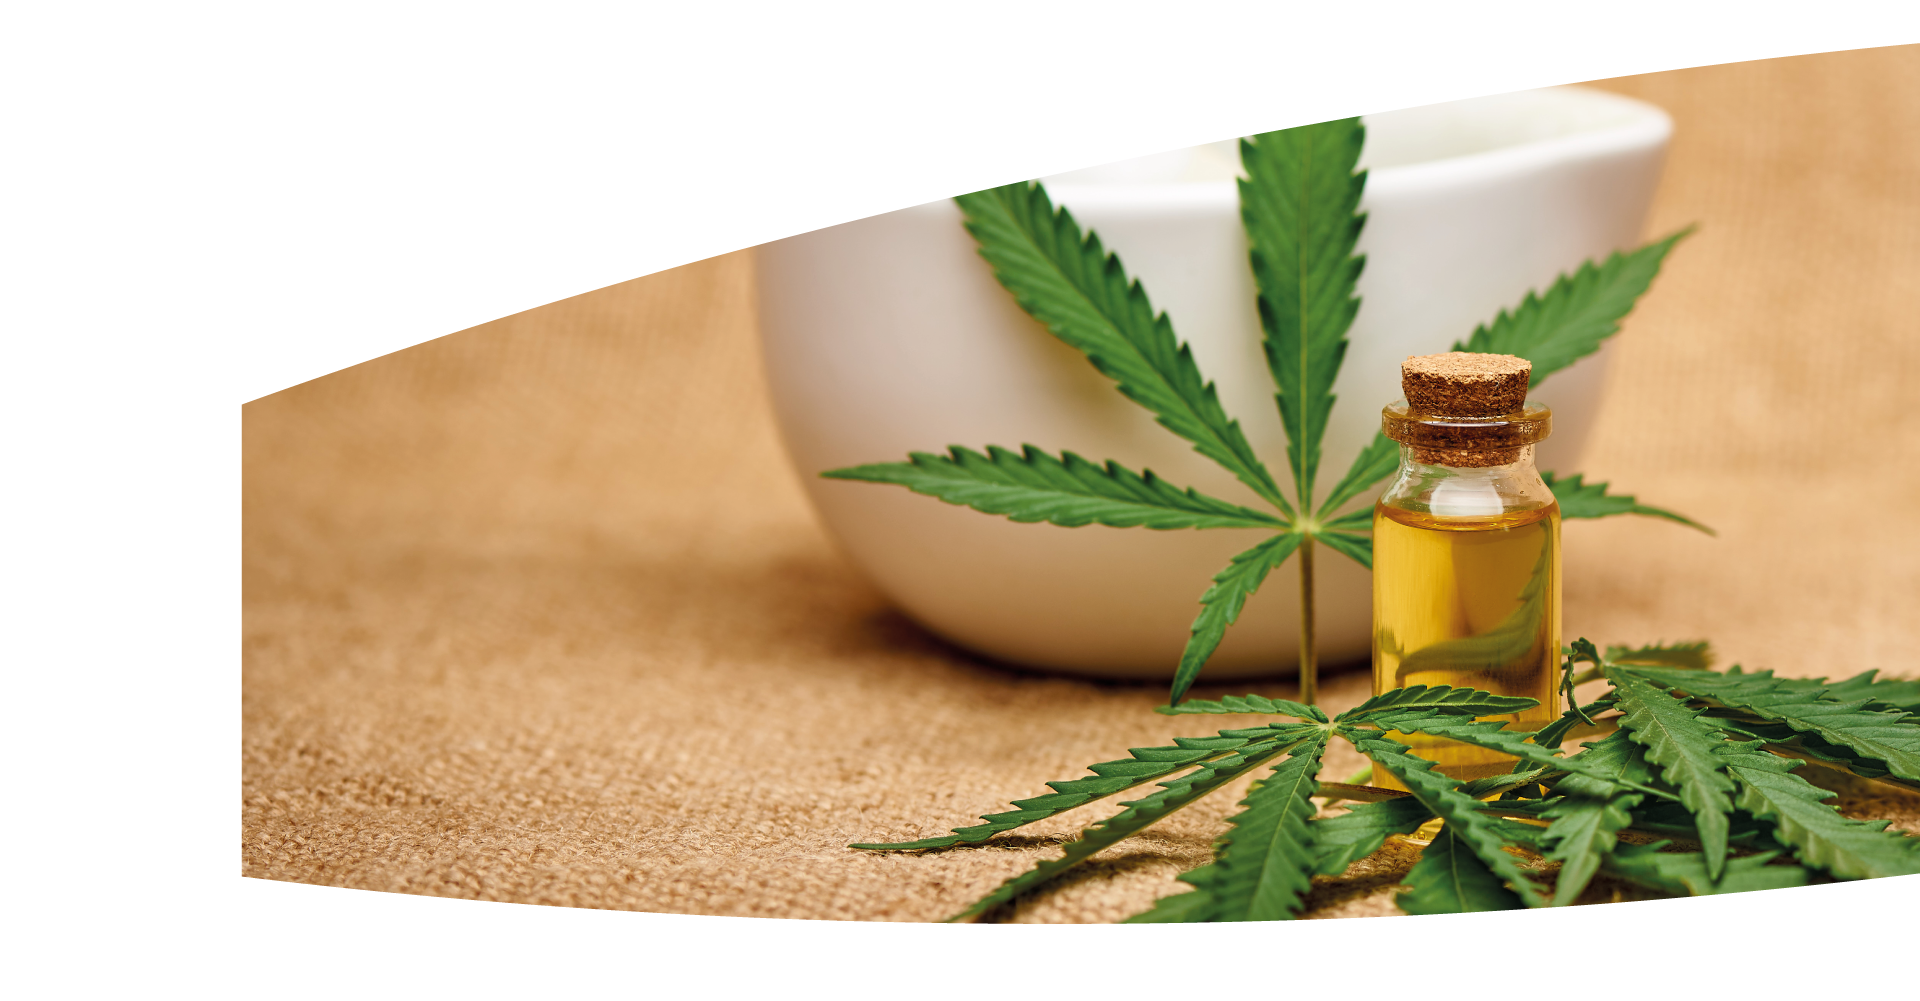
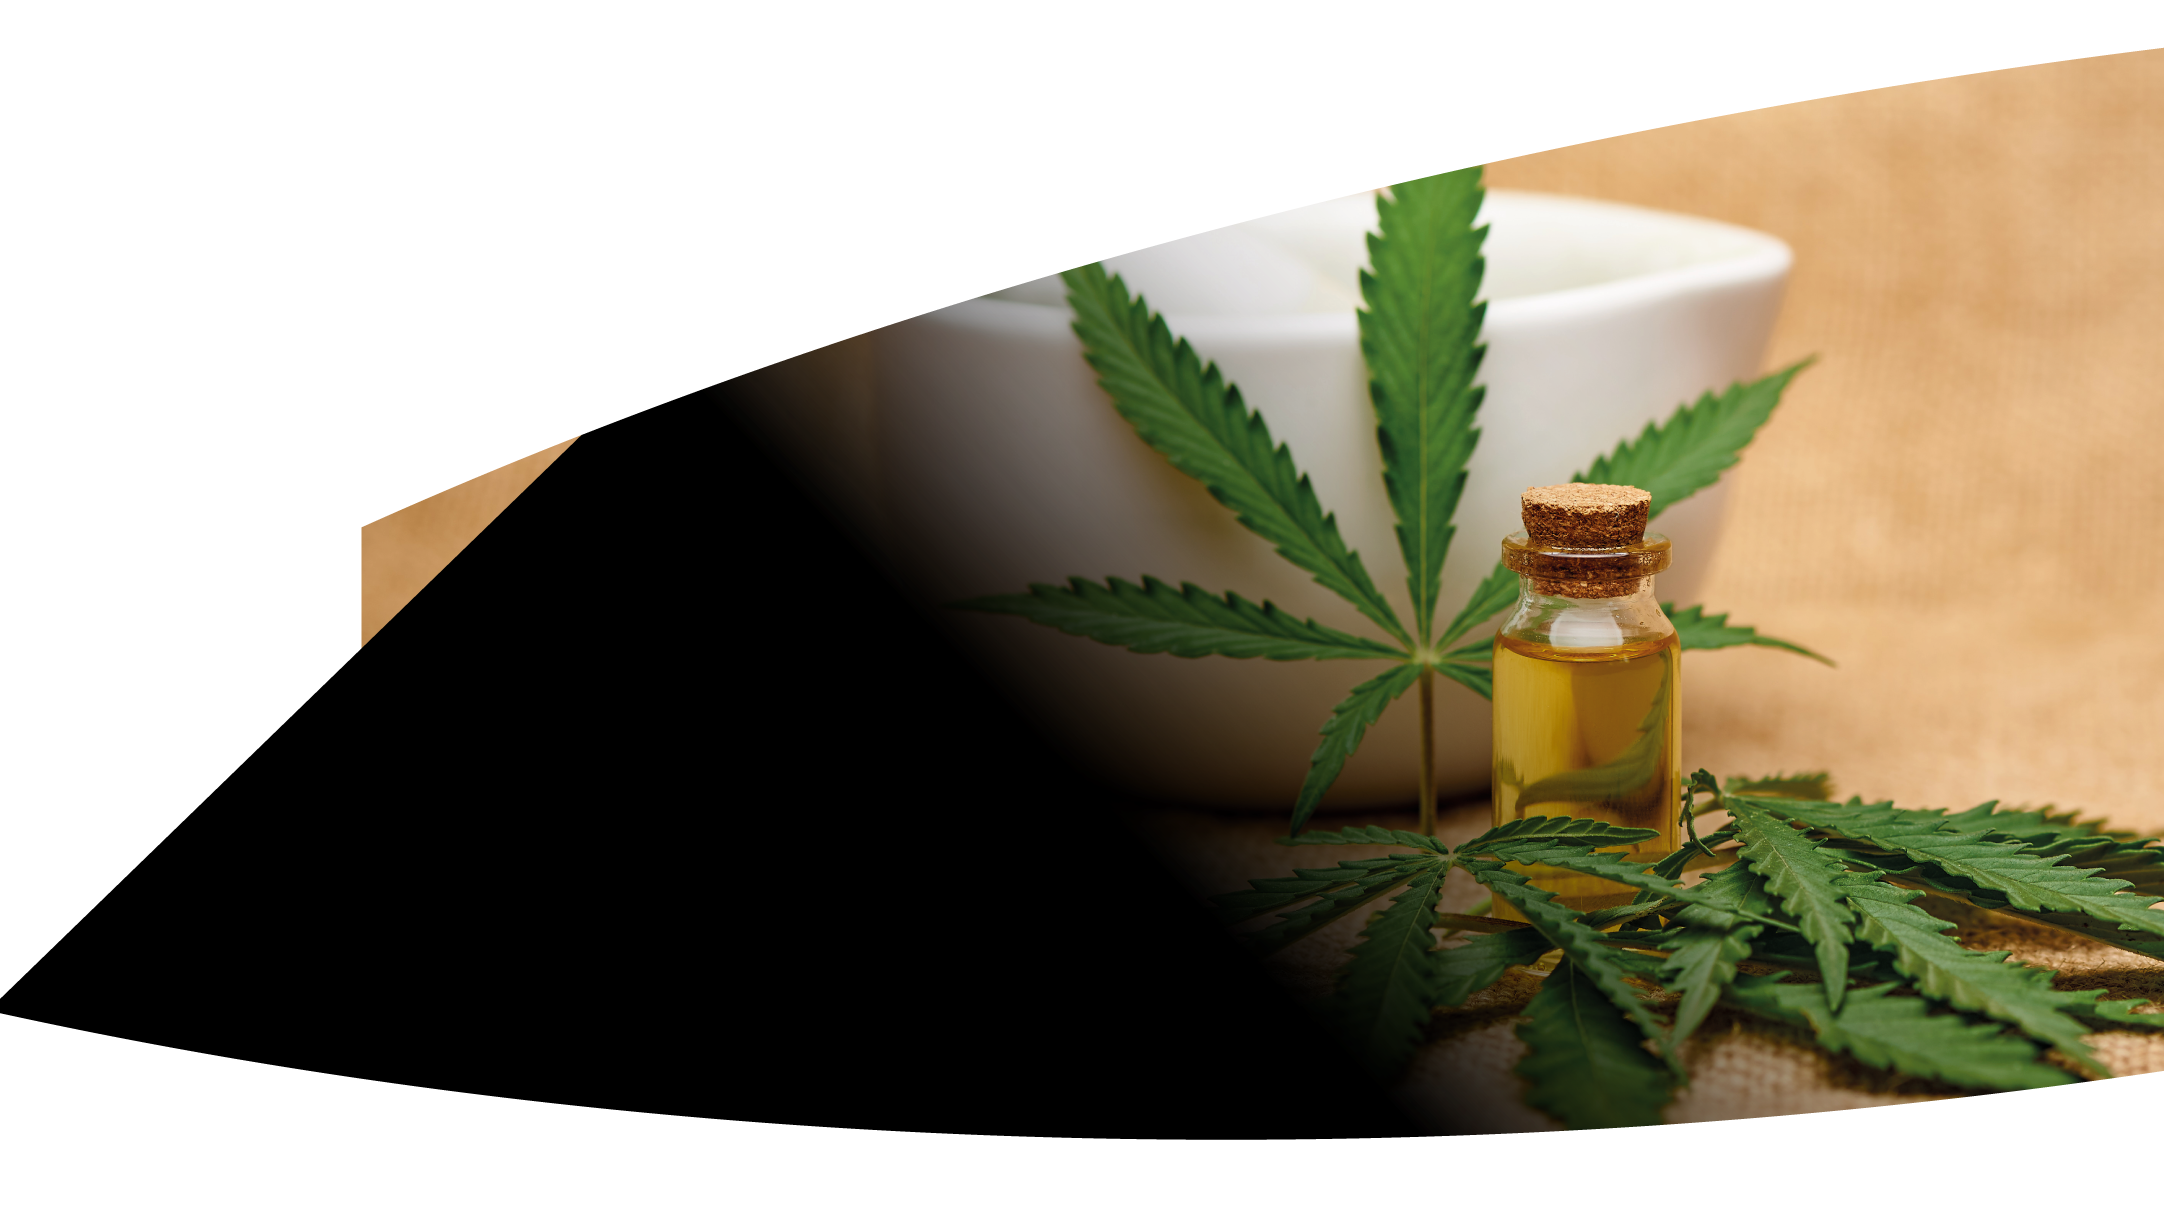
fix (Broad): several layout and styles fixes
- fixed layout for first service in services
- fixed navbar focus link color
- fixed footer height in large screens
- fixed number section styles

diff --git a/src/components/Navbar.tsx b/src/components/Navbar.tsx
@@ -19,7 +19,7 @@ const Navbar = (
     const selectedStyle: string = "z-10 h-0.5 absolute -bottom-0.5 lg:relative px-1 rounded-sm w-full bg-caribbean-green";
     const deselectedStyle: string = "h-0.5 absolute -bottom-0.5 lg:relative px-1 rounded-sm w-full";
     const listItemStyle: string = "flex relative flex-col items-center justify-end h-full gap-12";
-    const linkStyle: string = "font-semibold tracking-wide transition quartic-in-out duration-300 lg:hover:text-white lg:hover:-translate-y-1 focus:text-clinic-persian-green";
+    const linkStyle: string = "font-semibold tracking-wide transition quartic-in-out duration-300 lg:hover:text-viridian-green lg:hover:-translate-y-1 focus:text-viridian-green";
     const buttonStyle: string = "hidden lg:block rounded-full border-solid border-2 border-viridian-green text-viridian-green font-normal text-base px-6 py-1 transition duration-300 exponential-out lg:hover:border-white focus:border-white lg:hover:scale-110 lg:hover:bg-viridian-green lg:hover:text-white focus:scale-110 focus:bg-viridian-green focus:text-white";
 
     const {width: wWidth, height: wHeight} = useWindowDimensions();
@@ -73,31 +73,31 @@ const Navbar = (
             <>
                 <li className={listItemStyle}>
                     <Link
-                        className={`${linkStyle} ${props.selection === "home" ? "font-bold text-clinic-jade" : ""}`}
+                        className={`${linkStyle} ${props.selection === "home" ? "font-bold text-caribbean-green" : ""}`}
                         href={"/"}>{strings.navbar.home}</Link>
                     <span className={props.selection === "home" ? selectedStyle : deselectedStyle}/>
                 </li>
                 <li className={listItemStyle}>
                     <Link
-                        className={`${linkStyle} ${props.selection === "services" ? "font-bold text-clinic-jade" : ""}`}
+                        className={`${linkStyle} ${props.selection === "services" ? "font-bold text-caribbean-green" : ""}`}
                         href={"/services"}>{strings.navbar.services}</Link>
                     <span className={props.selection === "services" ? selectedStyle : deselectedStyle}/>
                 </li>
                 {/*<li className={listItemStyle}>*/}
                 {/*    <Link*/}
-                {/*        className={`${linkStyle} ${props.selection === "experience" ? "font-bold text-clinic-jade" : ""}`}*/}
+                {/*        className={`${linkStyle} ${props.selection === "experience" ? "font-bold text-caribbean-green" : ""}`}*/}
                 {/*        href={"/experience"}>{strings.navbar.experience}</Link>*/}
                 {/*    <span className={props.selection === "experience" ? selectedStyle : deselectedStyle}/>*/}
                 {/*</li>*/}
                 <li className={listItemStyle}>
                     <Link
-                        className={`${linkStyle} ${props.selection === "blog" ? "font-bold text-clinic-jade" : ""}`}
+                        className={`${linkStyle} ${props.selection === "blog" ? "font-bold text-caribbean-green" : ""}`}
                         href={"/blog"}>{strings.navbar.blog}</Link>
                     <span className={props.selection === "blog" ? selectedStyle : deselectedStyle}/>
                 </li>
                 <li className={listItemStyle}>
                     <Link
-                        className={`${linkStyle} ${props.selection === "contact" ? "font-bold text-clinic-jade" : ""}`}
+                        className={`${linkStyle} ${props.selection === "contact" ? "font-bold text-caribbean-green" : ""}`}
                         href={"/contact"}>{strings.navbar.contact}</Link>
                     <span className={props.selection === "contact" ? selectedStyle : deselectedStyle}/>
                 </li>
@@ -107,22 +107,22 @@ const Navbar = (
         else return (
             <>
                 <li className={listItemStyle}>
-                    <Link className={`${linkStyle} ${props.selection === "1" ? "font-bold text-clinic-jade" : ""}`}
+                    <Link className={`${linkStyle} ${props.selection === "1" ? "font-bold text-caribbean-green" : ""}`}
                           href={"/experience/pharmacy"}>{strings.experience.carousel["1"].headline}</Link>
                     <span className={props.selection === "1" ? selectedStyle : deselectedStyle}/>
                 </li>
                 <li className={listItemStyle}>
-                    <Link className={`${linkStyle} ${props.selection === "2" ? "font-bold text-clinic-jade" : ""}`}
+                    <Link className={`${linkStyle} ${props.selection === "2" ? "font-bold text-caribbean-green" : ""}`}
                           href={"/experience/coffee-shop"}>{strings.experience.carousel["2"].headline}</Link>
                     <span className={props.selection === "2" ? selectedStyle : deselectedStyle}/>
                 </li>
                 <li className={listItemStyle}>
-                    <Link className={`${linkStyle} ${props.selection === "3" ? "font-bold text-clinic-jade" : ""}`}
+                    <Link className={`${linkStyle} ${props.selection === "3" ? "font-bold text-caribbean-green" : ""}`}
                           href={"/experience/boutique"}>{strings.experience.carousel["3"].headline}</Link>
                     <span className={props.selection === "3" ? selectedStyle : deselectedStyle}/>
                 </li>
                 <li className={listItemStyle}>
-                    <Link className={`${linkStyle} ${props.selection === "4" ? "font-bold text-clinic-jade" : ""}`}
+                    <Link className={`${linkStyle} ${props.selection === "4" ? "font-bold text-caribbean-green" : ""}`}
                           href={"/experience/origins"}>{strings.experience.carousel["4"].headline}</Link>
                     <span className={props.selection === "4" ? selectedStyle : deselectedStyle}/>
                 </li>
@@ -130,7 +130,7 @@ const Navbar = (
                     <button className={"flex flex-col items-center justify-center"} onClick={toggleCart}
                             aria-expanded={cartOpen} aria-controls={"cart-menu"}>
                         <BagPlus size={32}
-                                 className={`${linkStyle} -translate-y-1 ${cartOpen ? "text-clinic-jade" : "lg:hover:!-translate-y-2 "}`}/>
+                                 className={`${linkStyle} -translate-y-1 ${cartOpen ? "text-caribbean-green" : "lg:hover:!-translate-y-2 "}`}/>
                     </button>
                 </li>
             </>

diff --git a/src/components/content/services/MedicalCannabis.tsx b/src/components/content/services/MedicalCannabis.tsx
@@ -3,17 +3,23 @@ import {strings} from "../../../model/strings";
 
 export const MedicalCannabis = () => {
     return (
-        <article className={"relative h-256"} id={"medicinal-cannabis"}>
-            <Image src={"/images/services/service1.png"} className={"absolute lg:scale-[1.5] xl:scale-100 -top-5 lg:-right-24 xl:right-0"} alt={""} width={1920}
+        <article className={"relative h-256 flex lg:block flex-col items-stretch justify-center"} id={"medicinal-cannabis"}>
+            <Image src={"/images/services/service1.png"}
+                   className={"absolute scale-[3] lg:scale-[1.5] xl:scale-100 right-16 brightness-50 lg:brightness-100 top-72 lg:-top-5 lg:-right-24 xl:right-0"} alt={""}
+                   width={1920}
                    height={1001}/>
-            <Image src={"/images/services/questionableAsset.svg"} className={"absolute lg:scale-[1.5] xl:scale-100 lg:left-24 xl:left-0 -top-5 left-0"} alt={""}
-                   width={16 * 150} height={16 * 150}/>
-            <section className={"relative w-168 lg:mt-56 xl:mt-96 lg:ml-24 xl:ml-56 flex flex-col justify-end items-start text-white"}>
+            <Image src={"/images/services/questionableAsset.svg"}
+                   className={"absolute scale-[6] lg:scale-[1.5] lg:left-24 xl:rotate-[-2.25deg] xl:left-96 lg:-top-[9.25rem] top-80 left-[32rem]"}
+                   alt={""}
+                   width={16 * 180} height={16 * 180}/>
+            <section
+                className={"mt-20 relative lg:w-168 lg:mt-56 xl:mt-96 lg:ml-24 xl:ml-56 flex flex-col justify-end items-start text-white px-4 lg:px-0 gap-16 lg:gap-4"}>
                 <section className={""}>
-                    <h2 className={"text-8xl font-black tracking-wide mb-4"}>{strings.services.sections["1"].headline}</h2>
-                    <h3 className={"font-normal text-3xl"}>{strings.services.sections["1"].remark}</h3>
+                    <h2 className={"text-6xl lg:text-8xl leading-[0.7] font-black tracking-wide mb-4"}>{strings.services.sections["1"].headline}<strong className={"text-7xl lg:text-9xl"}>{strings.services.sections["1"].remark}</strong>
+                    </h2>
+                    <h3 className={"font-base lg:font-light text-2xl lg:text-3xl"}>{strings.services.sections["1"].subtitle}</h3>
                 </section>
-                <p className={"font-normal text-2xl"}>{strings.services.sections["1"].content}</p>
+                <p className={"font-base lg:font-light text-lg lg:text-2xl"}>{strings.services.sections["1"].content}</p>
             </section>
         </article>
     );

diff --git a/src/components/content/index/Numbers.tsx b/src/components/content/index/Numbers.tsx
@@ -2,9 +2,9 @@ import Image from "next/image";
 
 export const Numbers = () => {
     return (
-        <article className={"relative lg:px-40 w-full flex items-center justify-center overflow-clip py-16 backdrop-blur-2xl"}>
+        <article className={"relative lg:px-40 w-full flex items-center justify-center overflow-clip py-16 bg-midnight-green"}>
             <span className={"absolute z-0 bg-gradient-to-br from-caribbean-green/20 via-viridian-green/10 w-[150vw] h-full"}/>
-            <section className={"text-midnight-green relative z-10 grid gap-16 lg:grid-cols-3 w-full"}>
+            <section className={"text-white relative z-10 grid gap-16 lg:grid-cols-3 w-full"}>
                 <section className={"py-3 text-center w-full flex flex-col items-center justify-center gap-2"}>
                     <h2 className={"font-black text-5xl"}>147.000+</h2>
                     <h3 className={"font-light text-3xl"}>Procedimientos</h3>

diff --git a/src/model/strings.tsx b/src/model/strings.tsx
@@ -141,8 +141,9 @@ export const strings: IKeyedObject = {
         'subtext': <>{"Trabajamos para cumplir con los estándares de calidad que garanticen que nuestros tratamientos y productos te brinden una mejor calidad de vida."}</>,
         'sections': {
             1: {
-                'headline': <>{"Cannabis medicinal"}</>,
-                'remark': <>{"Dolor crónico y otras patologías"}</>,
+                'headline': <>{"Cannabis "}</>,
+                'remark': <>{"medicinal"}</>,
+                'subtitle': <>{"Dolor crónico y otras patologías"}</>,
                 'content': <>{"Aplicamos protocolos de medicina cannábica enmarcados dentro de los requisitos normativos para aliviar los síntomas derivados del dolor crónico y obteniendo mejoras en estados de ansiedad, depresión, alteración del apetito y trastornos del sueño."}</>,
             },
             2: {

diff --git a/src/components/Footer.tsx b/src/components/Footer.tsx
@@ -23,7 +23,7 @@ const Footer = () => {
     return (
         <>
             <footer
-                className={"z-0 bg-rich-black lg:bg-white flex w-full h-fit lg:h-256 relative flex-col justify-end items-center mt-auto overflow-x-clip"}>
+                className={"z-0 bg-rich-black lg:bg-white flex w-full h-fit lg:h-144 relative flex-col justify-end items-center mt-auto overflow-x-clip"}>
                 {/*<Image src={"/images/backgrounds/footer.svg"}*/}
                 {/*       className={"z-0 w-full h-auto pointer-events-none selection:bg-transparent absolute lg:scale-[1.85] xl:scale-[1.1] -top-28 lg:bottom-28 lg:left-36 xl:left-auto lg:top-auto xl:bottom-0"} alt={""}*/}
                 {/*       height={932} width={1920} priority/>*/}
